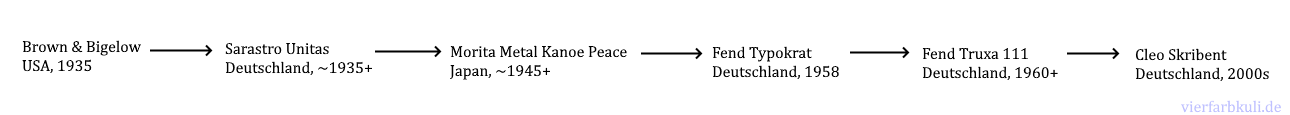
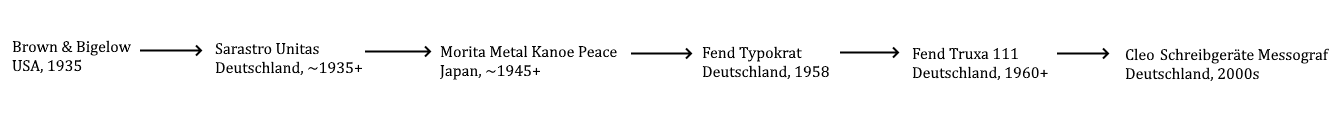
fend overhaul

diff --git a/typokrat.html b/typokrat.html
@@ -28,8 +28,8 @@
 			Dies ist ein Unterartikel. <a href="fend.html">Hier geht es zum Hauptartikel über Fend</a>
 			<hr>
 			<br>
-			<img src="images/messografvorgänger.png" style="width:100%"> <br><br>
-			
+			<img src="images/messografvorgänger.png" style="width:100%"> 
+			<a style="font-size:11px; text-align:center; display:block"><i>Fend Truxa 111, sehr ähnlich dem Typokrat</i></a><br>
 	
 			Der Fend Typokrat war ein Mehrfunktionen-Kugelschreiber, der ab 1958 von der Firma Gebrüder Fend aus Pforzheim verkauft wurde. <br><br>
 			Primär wurden die Funktion <b>Kugelschreiber und Schiebelehre</b> zusammengefasst. <br>